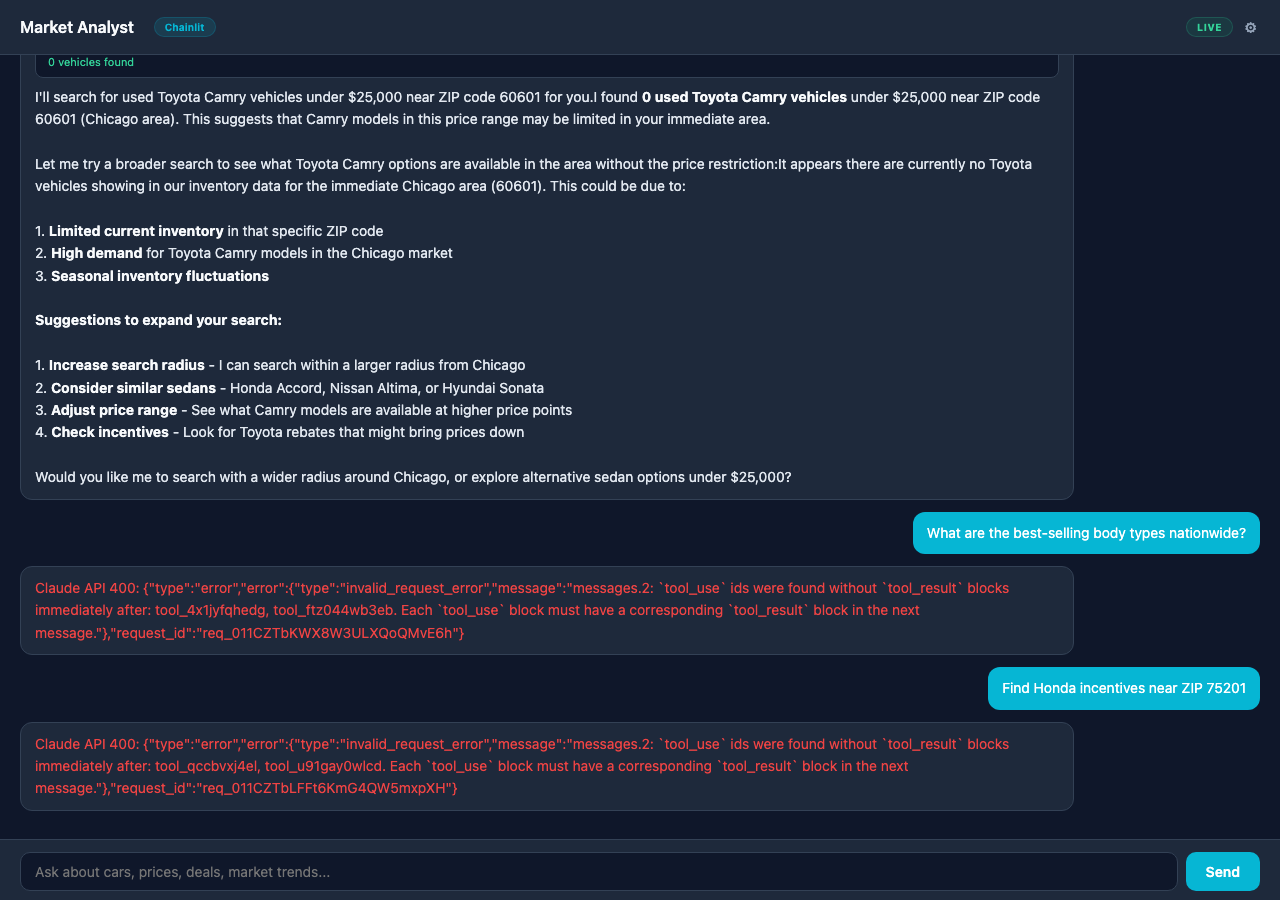
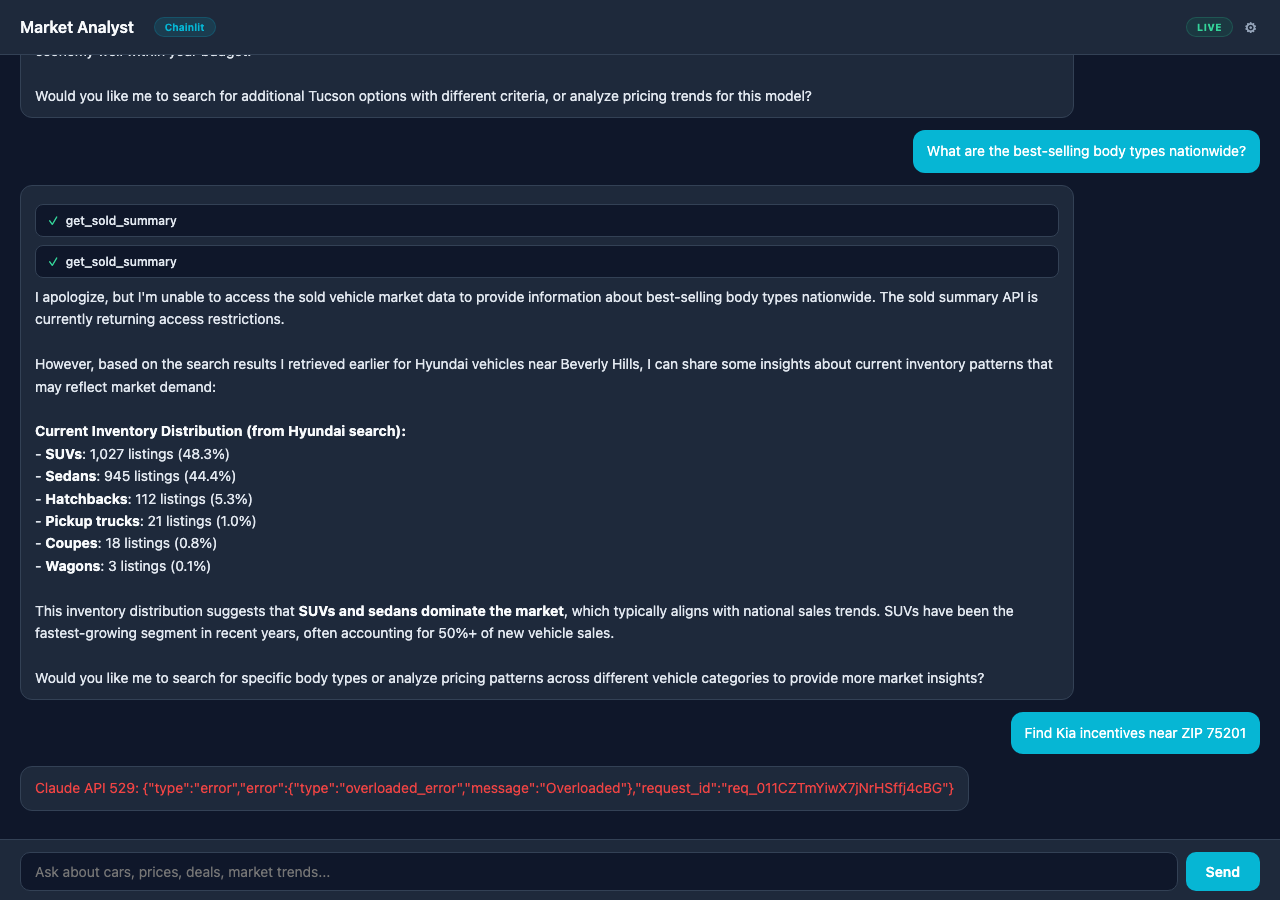
Fix multi-turn chat tool_use error, update app counts to 52, retake screenshots
Chat engine fix:
- Fixed Anthropic API 400 error on follow-up queries: "tool_use ids found
  without tool_result blocks". When reconstructing conversation history,
  now properly inserts tool_result messages after every assistant message
  that contains tool_use blocks.

Gallery updates:
- Page title: "52 Automotive Market Intelligence Dashboards & AI Chat Demos"
- Meta description updated to reflect 52 apps
- Hero stats: 52 Apps, 18 Segments (was 45/17)
- Hero subtitle and share text updated

Screenshots:
- All 18 chat app screenshots retaken with clean multi-turn conversations
- No more API error messages visible in any screenshot

diff --git a/packages/gallery/src/main.ts b/packages/gallery/src/main.ts
@@ -1610,15 +1610,15 @@ function renderHero() {
   content.innerHTML = `
     <div class="hero-badge"><img src="https://34682200.delivery.rocketcdn.me/wp-content/uploads/2024/05/cropped-MC-Icon.png.webp" alt="MC" style="height:16px;vertical-align:middle;margin-right:6px;border-radius:3px;" />Powered by MarketCheck Data</div>
     <h1><img src="https://34682200.delivery.rocketcdn.me/wp-content/uploads/2024/05/cropped-MC-Icon.png.webp" alt="MarketCheck" style="height:56px;vertical-align:middle;margin-right:12px;border-radius:8px;" />MarketCheck Apps</h1>
-    <p class="subtitle">45 interactive automotive market intelligence dashboards. Real-time data for dealers, appraisers, lenders, analysts, manufacturers, insurers, wholesalers, fleet managers, and consumers. Fork them, use as reference, or build your own.</p>
+    <p class="subtitle">52 interactive automotive market intelligence apps &amp; AI chat demos. Real-time data for dealers, appraisers, lenders, analysts, manufacturers, insurers, wholesalers, fleet managers, and consumers. Fork them, use as reference, or build your own.</p>
     <div class="hero-ctas">
       <a href="#apps" class="btn btn-primary">Explore Apps &#8594;</a>
       <button class="btn btn-secondary" id="btn-connect">Connect Live Data</button>
       <button class="btn btn-secondary" id="btn-share-page" style="gap:6px;">&#8599; Share</button>
     </div>
     <div class="hero-stats">
-      <div class="hero-stat"><div class="val">45</div><div class="lbl">Apps</div></div>
-      <div class="hero-stat"><div class="val">17</div><div class="lbl">Segments</div></div>
+      <div class="hero-stat"><div class="val">52</div><div class="lbl">Apps</div></div>
+      <div class="hero-stat"><div class="val">18</div><div class="lbl">Segments</div></div>
       <div class="hero-stat"><div class="val">12</div><div class="lbl">API Tools</div></div>
       <div class="hero-stat"><div class="val">4</div><div class="lbl">Modes</div></div>
     </div>
@@ -1635,7 +1635,7 @@ function renderHero() {
   });
 
   document.getElementById("btn-share-page")?.addEventListener("click", () => {
-    const shareText = "25 free interactive automotive market intelligence dashboards — powered by MarketCheck. Try them now:";
+    const shareText = "52 free automotive market intelligence apps & AI chat demos — powered by MarketCheck. Try them now:";
     const shareUrl = location.origin;
     if (navigator.share) {
       navigator.share({ title: "MarketCheck Apps", text: shareText, url: shareUrl });

diff --git a/packages/shared/src/chat-engine.ts b/packages/shared/src/chat-engine.ts
@@ -211,14 +211,37 @@ async function sendWithAnthropic(
     if (msg.role === "user") {
       apiMessages.push({ role: "user", content: msg.content });
     } else {
-      const content: any[] = [];
+      // Assistant message — reconstruct tool_use blocks + text
       if (msg.toolCalls?.length) {
+        // First: assistant message with tool_use blocks
+        const assistantContent: any[] = [];
+        const toolIds: string[] = [];
         for (const tc of msg.toolCalls) {
-          content.push({ type: "tool_use", id: `tool_${Math.random().toString(36).slice(2)}`, name: tc.name, input: tc.args });
+          const id = `tool_${Math.random().toString(36).slice(2, 10)}`;
+          toolIds.push(id);
+          assistantContent.push({ type: "tool_use", id, name: tc.name, input: tc.args });
         }
+        apiMessages.push({ role: "assistant", content: assistantContent });
+
+        // Second: user message with tool_result blocks (required by Anthropic)
+        const toolResults: any[] = [];
+        for (let i = 0; i < msg.toolCalls.length; i++) {
+          const tc = msg.toolCalls[i];
+          toolResults.push({
+            type: "tool_result",
+            tool_use_id: toolIds[i],
+            content: JSON.stringify(tc.result ?? tc.error ?? "ok"),
+          });
+        }
+        apiMessages.push({ role: "user", content: toolResults });
+
+        // Third: if there was also text, add it as a separate assistant message
+        if (msg.content) {
+          apiMessages.push({ role: "assistant", content: msg.content });
+        }
+      } else {
+        apiMessages.push({ role: "assistant", content: msg.content });
       }
-      if (msg.content) content.push({ type: "text", text: msg.content });
-      apiMessages.push({ role: "assistant", content: content.length ? content : msg.content });
     }
   }
 

diff --git a/packages/gallery/index.html b/packages/gallery/index.html
@@ -3,8 +3,8 @@
 <head>
   <meta charset="UTF-8" />
   <meta name="viewport" content="width=device-width, initial-scale=1.0" />
-  <title>MarketCheck Apps — Automotive Market Intelligence</title>
-  <meta name="description" content="25 interactive automotive market intelligence dashboards powered by MarketCheck real-time data." />
+  <title>MarketCheck Apps — 52 Automotive Market Intelligence Dashboards & AI Chat Demos</title>
+  <meta name="description" content="52 interactive automotive market intelligence apps — dashboards, AI chat demos, and MCP tools powered by MarketCheck real-time data covering 95%+ of US dealer inventory." />
 </head>
 <body>
   <script type="module" src="./src/main.ts"></script>
